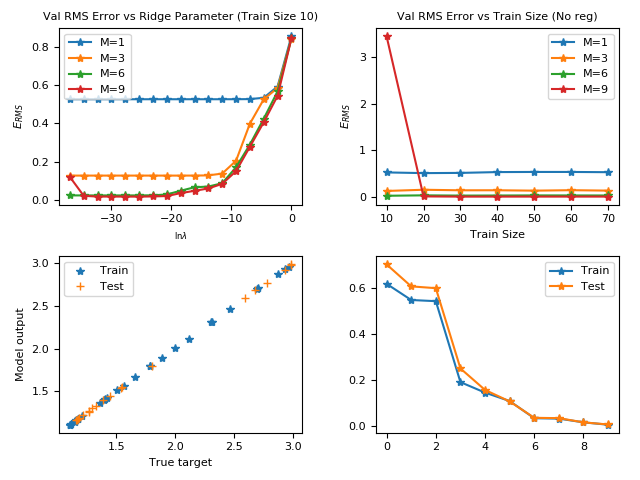
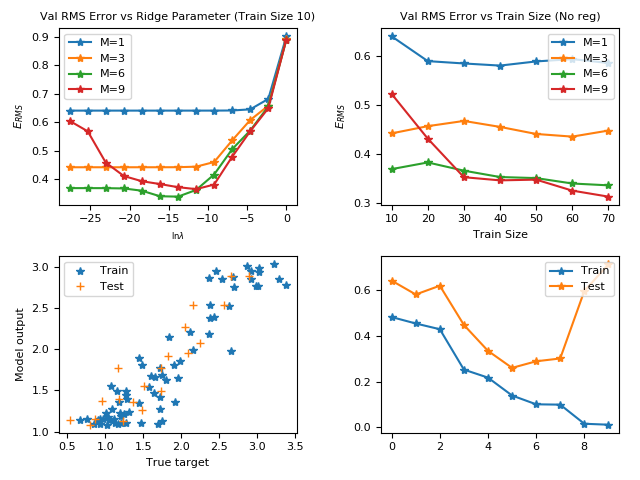
Added plots

diff --git a/regression.py b/regression.py
@@ -23,6 +23,12 @@ def getPolyfeatures(X,n) :
 def getRMSE(ytrue,ypred,ridge,w) :
     return np.sqrt((np.sum(np.multiply(ytrue-ypred,ytrue-ypred)) + ridge*np.sum(np.multiply(w,w)))/ytrue.shape[0])
     
+def getResults(X,y,degree,ridge) :
+    X = getPolyfeatures(X, degree)
+    w = getWeights(X, y, ridge)
+    y_pred = getPolyfit(X,w)
+    rmse = getRMSE(y,y_pred,ridge,w)
+    return w, y_pred, rmse
 
 # Seeding
 np.random.seed(42)
@@ -56,7 +62,7 @@ y_test = y[train_size+val_size:train_size+val_size+test_size]
 
 # Settings
 degrees = [1,3,6,9]
-ridges = [10**(-17+x) for x in range(18)]
+ridges = [10**(-13+x) for x in range(14)]
 ridges[0] = 0
 sizes = [10,20,30,40,50,60,70]
 all_degrees = np.linspace(0,9,10).astype(int)
@@ -65,7 +71,8 @@ all_degrees = np.linspace(0,9,10).astype(int)
 fig = 221
 rmses = []
 
-default = 1
+# set default to 1 if plots needed without regularisation
+default = 0
 if default :
     ridges = [0]
     sizes = [10]
@@ -76,10 +83,11 @@ for degree in degrees :
         for size in sizes : 
             X_train_new = X_train[:size]            
             y_train_new = y_train[:size]
-            X_train_new_poly = getPolyfeatures(X_train_new, degree)
-            w = getWeights(X_train_new_poly, y_train_new, ridge)
-            y_pred_new = getPolyfit(X_train_new_poly,w)
-            rmse_train = getRMSE(y_train_new, y_pred_new, ridge, w)
+            # X_train_new_poly = getPolyfeatures(X_train_new, degree)
+            # w = getWeights(X_train_new_poly, y_train_new, ridge)
+            # y_pred_new = getPolyfit(X_train_new_poly,w)
+            # rmse_train = getRMSE(y_train_new, y_pred_new, ridge, w)
+            w, y_pred_new, rmse = getResults(X_train_new, y_train_new, degree, ridge)
             rmse_val = getRMSE(y_val,getPolyfit(getPolyfeatures(X_val,degree),w), ridge, w)
             rmses.append(np.array([degree, ridge, size, rmse_val]))
 
@@ -90,22 +98,26 @@ for degree in degrees :
                     plt.xlabel("x")
                 else :
                     plt.ylabel("target")
+
+                # Training data
                 plt.plot(X_train_new,y_train_new,'.')
+                # Curve fit
                 x = np.linspace(0,1,100)
                 x_poly = getPolyfeatures(x,degree)
                 y_func = getPolyfit(x_poly,w)
+                # Coefficients
                 np.savetxt("results/coefficients/"+str(degree)+".txt",w,newline=" ")
                 M = "M="+str(degree)
                 plt.plot(x, y_func,label=M)
-                # plt.xlim(0,1)
-                # plt.ylim(0,4)
                 plt.legend()
-
-                figure.suptitle("Data, Target, Regression Output")
+                figure.suptitle("Data, Target, Regression Output (without regularisation)")
                 plt.savefig("results/targetvsx.png")
 
-best_model = rmses[np.argmin(np.array(rmses),axis=0)[-1]]
-print("Parameters of best model has degree {:.2f}, lambda {:.2f}, train size {:.2f}".format(best_model[0],best_model[1],best_model[2]))
+# Finding best model based using validation set
+rmses = np.array(rmses)
+scores = rmses[:,-1].reshape(-1,1)
+best_model = rmses[np.argmin(scores,axis=0)[0]]
+print("Parameters of best model has degree, lambda, train size",best_model[0],best_model[1],best_model[2])
 
 if default :
     raise SystemExit
@@ -115,13 +127,23 @@ deg1 = []
 rmse2 = []
 deg2 = []
 
+# rmse1 - with ridge regularisation and train size 10, rmse2 - without ridge regression and vary train size
+mini1 = 10
+mini2 = 10
 for rmse in rmses :
     if rmse[2] == 10 and rmse[1] !=0 :
         rmse1.append(rmse[3])
         deg1.append(rmse[0])
+        if mini1 > rmse[3] :
+            mini1 = rmse[3]
+            best_ridge = rmse[1]
     if rmse[1] == 0 :
         rmse2.append(rmse[3])
         deg2.append(rmse[0])
+        if mini2 > rmse[3] :
+            mini2 = rmse[3]
+            best_size = rmse[2]
+
 
 plt.rcParams.update({'font.size': 8})
 plt.subplot(221)
@@ -151,27 +173,26 @@ plt.title("Val RMS Error vs Train Size (No reg)",fontsize=8)
 plt.legend(fontsize=8, loc="upper right")
 
 plt.subplot(223)
-
+# Target vs output plot
 size = best_model[2].astype(int)
 ridge = best_model[1]
 degree = best_model[0].astype(int)
 
 X_train_new = X_train[:size]
 y_train_new = y_train[:size]
-X_train_new_poly = getPolyfeatures(X_train_new, degree)
-w = getWeights(X_train_new_poly, y_train_new, ridge)
-y_pred_new = getPolyfit(X_train_new_poly,w)
+w, y_pred_new, rmse = getResults(X_train_new, y_train_new, degree, ridge)
 y_pred_test = getPolyfit(getPolyfeatures(X_test,degree),w)
 
 plt.plot(y_train_new, y_pred_new,"*",label="Train")
 plt.plot(y_test, y_pred_test,"+",label="Test")
 plt.xlabel("True target",fontsize=8)
 plt.ylabel("Model output",fontsize=8)
-# plt.title("Output vs target", fontsize=8)
 plt.legend(fontsize=8)
 
+
+# Plotting Erms for train and test data without any regularisation
 ridge = 0
-size = 70
+size = 10
 X_train_new = X_train[:size]
 y_train_new = y_train[:size]
 
@@ -179,14 +200,9 @@ rmse_train = []
 rmse_test = [] 
 
 for degree in all_degrees : 
-    X_train_new_poly = getPolyfeatures(X_train_new, degree)
-    # print(X_train_new_poly.shape)
-    w = getWeights(X_train_new_poly, y_train_new, ridge)
-    y_pred_new = getPolyfit(X_train_new_poly,w)
-    # plt.plot(y_pred_new, y_train_new, "*")
-    rmse_train.append(getRMSE(y_train_new, y_pred_new, ridge, w))
+    w, y_pred_new, rmse = getResults(X_train_new, y_train_new, degree, ridge)
+    rmse_train.append(rmse)
     rmse_test.append(getRMSE(y_test,getPolyfit(getPolyfeatures(X_test,degree),w), ridge, w))
-
 
 plt.subplot(224)
 plt.tight_layout()
@@ -194,4 +210,49 @@ plt.plot(all_degrees,rmse_train,"-*",label="Train")
 plt.plot(all_degrees,rmse_test,"-*",label="Test")
 plt.legend(fontsize=8,loc="upper right")
 plt.savefig("results/erms.png")
+
+
+# Analysing overfitting case
+figure = plt.figure()
+degree = 9
+size = 10
+
+plt.subplot(231)
+x = np.linspace(0,1,100)
+x_poly = getPolyfeatures(x,degree)
+plt.plot(X_train_new,y_train_new,'.')
+# with ridge regression for 9th degree polynomial
+X_train_new = X_train[:size]
+y_train_new = y_train[:size]
+w, y_pred_new, rmse = getResults(X_train_new, y_train_new, degree, best_ridge)
+y_func = getPolyfit(x_poly,w)
+plt.plot(x, y_func)
+plt.title(r'$\lambda=$'+str(best_ridge))
+plt.ylabel("target")
+plt.tight_layout()
+
+plt.subplot(232)
+# with regularisation using large train size for 9th degree polynomial
+X_train_new = X_train[:int(best_size)]
+y_train_new = y_train[:int(best_size)]
+plt.plot(X_train_new,y_train_new,'.')
+w, y_pred_new, rmse = getResults(X_train_new, y_train_new, degree, 0)
+y_func = getPolyfit(x_poly,w)
+plt.plot(x, y_func)
+plt.title("Train size - "+str(int(best_size)))
+plt.tight_layout()
+
+plt.subplot(233)
+# without regularisation for 9th degree polynomial
+X_train_new = X_train[:10]
+y_train_new = y_train[:10]
+plt.plot(X_train_new,y_train_new,'.')
+w, y_pred_new, rmse = getResults(X_train_new, y_train_new, degree, 0)
+y_func = getPolyfit(x_poly,w)
+plt.plot(x, y_func)
+plt.title("No regularisation")
+plt.xlabel("x")
+plt.tight_layout()
+# figure.suptitle("Analysis of Overfitting for degree 9")
+
 plt.show()
